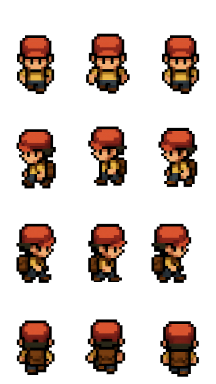
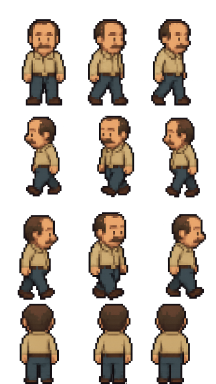
matching phaser character to onchain character

diff --git a/app/game/scenes/WorldScene.ts b/app/game/scenes/WorldScene.ts
@@ -23,8 +23,9 @@ import {
 } from "../../../lib/game/utils/ui";
 import { useUserDataStore } from "../../../lib/game/stores/userData";
 import { useChatStore } from "../../../lib/game/stores/chat";
-import { useGameMoves } from "@/components/game/GameMoves";
+import { useGameMoves } from "@/lib/hooks/useGameMoves";
 import { useAccount } from "wagmi";
+import { usePlayerCharacter } from "@/lib/hooks/usePlayerCharacter";
 
 // Using string literal types instead of importing Direction from grid-engine
 type Direction = "up" | "down" | "left" | "right";
@@ -112,6 +113,12 @@ export interface WorldReceivedData {
   };
 }
 
+interface WorldSceneData {
+  socket: Socket;
+  playerAddress: `0x${string}`;
+  characterSprite: string;
+}
+
 export default class WorldScene extends Scene {
   // Original properties
   gridEngine!: GridEngineInterface;
@@ -154,13 +161,21 @@ export default class WorldScene extends Scene {
   private playerCharacter: string = ""; // Will store the character type
   private gameEndText!: GameObjects.Text;
 
+  // Add new property
+  private playerAddress: `0x${string}` | undefined;
+
   constructor() {
     super("WorldScene");
   }
 
-  init(data: any) {
-    // Get socket from data passed from BootScene
+  init(data: WorldSceneData) {
     this.socket = data.socket;
+    this.playerAddress = data.playerAddress;
+
+    // Create player with assigned character sprite
+    this.player = this.add.sprite(0, 0, data.characterSprite);
+    this.player.setOrigin(0.5, 0.5);
+    this.player.setDepth(1);
 
     // Get game moves from window object
     if (typeof window !== "undefined") {
@@ -192,6 +207,17 @@ export default class WorldScene extends Scene {
   }
 
   create(): void {
+    if (!this.playerAddress) {
+      console.error("No player address provided");
+      return;
+    }
+
+    const playerCharData = usePlayerCharacter(this.playerAddress);
+    if (!playerCharData?.spriteName) {
+      console.error("Player has not joined the game onchain");
+      return;
+    }
+
     // Make the game instance globally accessible
     (window as any).__PHASER_GAME__ = this.game;
 

diff --git a/app/game/scenes/BootScene.ts b/app/game/scenes/BootScene.ts
@@ -5,6 +5,7 @@ import { UIEvents } from "../../../lib/game/constants/events";
 import { dispatch } from "../../../lib/game/utils/ui";
 import { useUIStore } from "../../../lib/game/stores/ui";
 import { useSocket } from "@/lib/hooks/useSocket";
+import { usePlayerCharacter } from "@/lib/hooks/usePlayerCharacter";
 
 export default class BootScene extends Scene {
   text!: GameObjects.Text;
@@ -24,9 +25,37 @@ export default class BootScene extends Scene {
   }
 
   launchGame(): void {
+    const playerAddress = (window as any).__playerAddress;
+
+    if (!playerAddress) {
+      console.error("No wallet connected");
+      return;
+    }
+
+    // Add loading state
+    const loadingText = this.add.text(
+      this.cameras.main.centerX,
+      this.cameras.main.centerY,
+      "Loading character data...",
+      { fontSize: "32px", color: "#fff" }
+    );
+    loadingText.setOrigin(0.5);
+
+    const playerCharData = usePlayerCharacter(playerAddress);
+
+    if (!playerCharData) {
+      loadingText.setText(
+        "Error: Not joined onchain. Please join the game first."
+      );
+      return;
+    }
+
     this.sound.pauseOnBlur = false;
-    // Pass socket to WorldScene
-    this.scene.start("WorldScene", { socket: this.socket });
+    this.scene.start("WorldScene", {
+      socket: this.socket,
+      playerAddress: playerAddress,
+      characterSprite: playerCharData.spriteName,
+    });
   }
 
   preload(): void {

diff --git a/app/game/GameComponent.tsx b/app/game/GameComponent.tsx
@@ -11,7 +11,7 @@ import { useChatStore } from "../../lib/game/stores/chat";
 import Loading from "./ui/Loading";
 import ChatWindow from "./ui/ChatWindow";
 import { useSocket } from "@/lib/hooks/useSocket";
-import { useGameMoves } from "@/components/game/GameMoves";
+import { useGameMoves } from "@/lib/hooks/useGameMoves";
 
 const GameComponent = () => {
   const [game, setGame] = useState<PhaserGame>();
